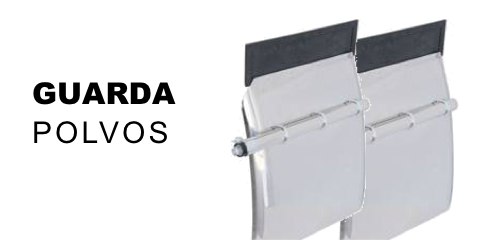
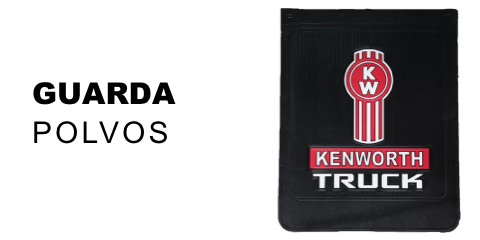
Modificacion codigo html y reestructuracion de imagenes

diff --git a/index.html b/index.html
@@ -15,7 +15,7 @@
 <body>
     <header>
         <div class="logo-header">
-            <img src="./img/logo/Logo.jpg" alt="logo_passionfortrucks">
+            <img src="./img/logo/Logo.png" alt="logo_passionfortrucks">
         </div>
         <nav>
             <div>
@@ -154,7 +154,7 @@
                     </div>
 
                     <div class="col productos-passion-for-trucks">
-                        <img src="./img/productos/Producto-1.png" alt="producto">
+                        <img src="./img/productos/Producto-2.png" alt="producto">
                         <h3>Bombillo Led Premium Multivoltage 9V - 32V</h3>
                         <a
                             href="https://api.whatsapp.com/send?phone=573008638967&text=Hola%21+%F0%9F%91%8B+%0A%C2%A1Estoy+en+PassionForTrucks.co+y+quiero+m%C3%A1s+informaci%C3%B3n+sobre+un+producto+para+mi+veh%C3%ADculo%21+%F0%9F%9A%9A">Ver
@@ -162,7 +162,7 @@
                     </div>
 
                     <div class="col productos-passion-for-trucks">
-                        <img src="./img/productos/Producto-1.png" alt="producto">
+                        <img src="./img/productos/Producto-3.png" alt="producto">
                         <h3>Exploradoras Kenworth 9V - 36V</h3>
                         <a
                             href="https://api.whatsapp.com/send?phone=573008638967&text=Hola%21+%F0%9F%91%8B+%0A%C2%A1Estoy+en+PassionForTrucks.co+y+quiero+m%C3%A1s+informaci%C3%B3n+sobre+un+producto+para+mi+veh%C3%ADculo%21+%F0%9F%9A%9A">Ver
@@ -170,7 +170,7 @@
                     </div>
 
                     <div class="col productos-passion-for-trucks">
-                        <img src="./img/productos/Producto-1.png" alt="producto">
+                        <img src="./img/productos/Producto-4.png" alt="producto">
                         <h3>Barra Panorámica 17 Funciones Multivoltage 12V - 24V</h3>
                         <a
                             href="https://api.whatsapp.com/send?phone=573008638967&text=Hola%21+%F0%9F%91%8B+%0A%C2%A1Estoy+en+PassionForTrucks.co+y+quiero+m%C3%A1s+informaci%C3%B3n+sobre+un+producto+para+mi+veh%C3%ADculo%21+%F0%9F%9A%9A">Ver
@@ -178,16 +178,16 @@
                     </div>
 
                     <div class="col productos-passion-for-trucks">
-                        <img src="./img/productos/Producto-1.png" alt="producto">
-                        <h3>Corneta Triple Sonido Tren Multivoltage 12V - 24V</h3>
+                        <img src="./img/productos/Producto-5.png" alt="producto">
+                        <h3>Tapa Tuerca 2021PA 41mm</h3>
                         <a
                             href="https://api.whatsapp.com/send?phone=573008638967&text=Hola%21+%F0%9F%91%8B+%0A%C2%A1Estoy+en+PassionForTrucks.co+y+quiero+m%C3%A1s+informaci%C3%B3n+sobre+un+producto+para+mi+veh%C3%ADculo%21+%F0%9F%9A%9A">Ver
                             Producto</a>
                     </div>
 
                     <div class="col productos-passion-for-trucks">
-                        <img src="./img/productos/Producto-1.png" alt="producto">
-                        <h3>Corneta Triple Tipo Westing Multivoltage 12V - 24V</h3>
+                        <img src="./img/productos/Producto-6.png" alt="producto">
+                        <h3>Tapa Tuerca Acero Inoxidable 12 x 3.3 cm</h3>
                         <a
                             href="https://api.whatsapp.com/send?phone=573008638967&text=Hola%21+%F0%9F%91%8B+%0A%C2%A1Estoy+en+PassionForTrucks.co+y+quiero+m%C3%A1s+informaci%C3%B3n+sobre+un+producto+para+mi+veh%C3%ADculo%21+%F0%9F%9A%9A">Ver
                             Producto</a>
@@ -199,48 +199,48 @@
 
                 <div class="row row-cols-1 row-cols-md-4 cuadro-productos">
                     <div class="col productos-passion-for-trucks">
-                        <img src="./img/productos/Producto-2.png" alt="producto">
-                        <h3>Titulo Del Producto</h3>
+                        <img src="./img/productos/Producto-7.png" alt="producto">
+                        <h3>Tapa Combustible Para Camión NPR</h3>
                         <a
                             href="https://api.whatsapp.com/send?phone=573008638967&text=Hola%21+%F0%9F%91%8B+%0A%C2%A1Estoy+en+PassionForTrucks.co+y+quiero+m%C3%A1s+informaci%C3%B3n+sobre+un+producto+para+mi+veh%C3%ADculo%21+%F0%9F%9A%9A">Ver
                             Producto</a>
                     </div>
 
                     <div class="col productos-passion-for-trucks">
-                        <img src="./img/productos/Producto-2.png" alt="producto">
-                        <h3>Titulo Del Producto</h3>
+                        <img src="./img/productos/Producto-8.png" alt="producto">
+                        <h3>Manguera Sopla Cabinas Importada</h3>
                         <a
                             href="https://api.whatsapp.com/send?phone=573008638967&text=Hola%21+%F0%9F%91%8B+%0A%C2%A1Estoy+en+PassionForTrucks.co+y+quiero+m%C3%A1s+informaci%C3%B3n+sobre+un+producto+para+mi+veh%C3%ADculo%21+%F0%9F%9A%9A">Ver
                             Producto</a>
                     </div>
 
                     <div class="col productos-passion-for-trucks">
-                        <img src="./img/productos/Producto-2.png" alt="producto">
-                        <h3>Titulo Del Producto</h3>
+                        <img src="./img/productos/Producto-9.png" alt="producto">
+                        <h3>Stop Trasero Led Universal Para Camión</h3>
                         <a
                             href="https://api.whatsapp.com/send?phone=573008638967&text=Hola%21+%F0%9F%91%8B+%0A%C2%A1Estoy+en+PassionForTrucks.co+y+quiero+m%C3%A1s+informaci%C3%B3n+sobre+un+producto+para+mi+veh%C3%ADculo%21+%F0%9F%9A%9A">Ver
                             Producto</a>
                     </div>
 
                     <div class="col productos-passion-for-trucks">
-                        <img src="./img/productos/Producto-2.png" alt="producto">
-                        <h3>Titulo Del Producto</h3>
+                        <img src="./img/productos/Producto-10.png" alt="producto">
+                        <h3>Unidad Kenworth De Lujo T800</h3>
                         <a
                             href="https://api.whatsapp.com/send?phone=573008638967&text=Hola%21+%F0%9F%91%8B+%0A%C2%A1Estoy+en+PassionForTrucks.co+y+quiero+m%C3%A1s+informaci%C3%B3n+sobre+un+producto+para+mi+veh%C3%ADculo%21+%F0%9F%9A%9A">Ver
                             Producto</a>
                     </div>
 
                     <div class="col productos-passion-for-trucks">
-                        <img src="./img/productos/Producto-2.png" alt="producto">
-                        <h3>Titulo Del Producto</h3>
+                        <img src="./img/productos/Producto-11.png" alt="producto">
+                        <h3>Cornetas 5 Bocinas Tipo Tren</h3>
                         <a
                             href="https://api.whatsapp.com/send?phone=573008638967&text=Hola%21+%F0%9F%91%8B+%0A%C2%A1Estoy+en+PassionForTrucks.co+y+quiero+m%C3%A1s+informaci%C3%B3n+sobre+un+producto+para+mi+veh%C3%ADculo%21+%F0%9F%9A%9A">Ver
                             Producto</a>
                     </div>
 
                     <div class="col productos-passion-for-trucks">
-                        <img src="./img/productos/Producto-2.png" alt="producto">
-                        <h3>Titulo Del Producto</h3>
+                        <img src="./img/productos/Producto-12.png" alt="producto">
+                        <h3>Cinta Neón Flex Varios Colores 12V ó 24V</h3>
                         <a
                             href="https://api.whatsapp.com/send?phone=573008638967&text=Hola%21+%F0%9F%91%8B+%0A%C2%A1Estoy+en+PassionForTrucks.co+y+quiero+m%C3%A1s+informaci%C3%B3n+sobre+un+producto+para+mi+veh%C3%ADculo%21+%F0%9F%9A%9A">Ver
                             Producto</a>
@@ -263,48 +263,48 @@
 
                 <div class="row row-cols-1 row-cols-md-4 cuadro-productos">
                     <div class="col productos-passion-for-trucks">
-                        <img src="./img/productos/Producto-3.png" alt="producto">
-                        <h3>Titulo Del Producto</h3>
+                        <img src="./img/productos/Producto-13.png" alt="producto">
+                        <h3>Plumillas Limpia Parabrisas 18" a 22"</h3>
                         <a
                             href="https://api.whatsapp.com/send?phone=573008638967&text=Hola%21+%F0%9F%91%8B+%0A%C2%A1Estoy+en+PassionForTrucks.co+y+quiero+m%C3%A1s+informaci%C3%B3n+sobre+un+producto+para+mi+veh%C3%ADculo%21+%F0%9F%9A%9A">Ver
                             Producto</a>
                     </div>
 
                     <div class="col productos-passion-for-trucks">
-                        <img src="../img/productos/Producto-3.png" alt="producto">
-                        <h3>Titulo Del Producto</h3>
+                        <img src="../img/productos/Producto-14.png" alt="producto">
+                        <h3>Semáforo Secuencial 12V a 36V</h3>
                         <a
                             href="https://api.whatsapp.com/send?phone=573008638967&text=Hola%21+%F0%9F%91%8B+%0A%C2%A1Estoy+en+PassionForTrucks.co+y+quiero+m%C3%A1s+informaci%C3%B3n+sobre+un+producto+para+mi+veh%C3%ADculo%21+%F0%9F%9A%9A">Ver
                             Producto</a>
                     </div>
 
                     <div class="col productos-passion-for-trucks">
-                        <img src="./img/productos/Producto-3.png" alt="producto">
-                        <h3>Titulo Del Producto</h3>
+                        <img src="./img/productos/Producto-15.png" alt="producto">
+                        <h3>Parasoles Polarizados 53 x 130 cm ó 42 x 130cm</h3>
                         <a
                             href="https://api.whatsapp.com/send?phone=573008638967&text=Hola%21+%F0%9F%91%8B+%0A%C2%A1Estoy+en+PassionForTrucks.co+y+quiero+m%C3%A1s+informaci%C3%B3n+sobre+un+producto+para+mi+veh%C3%ADculo%21+%F0%9F%9A%9A">Ver
                             Producto</a>
                     </div>
 
                     <div class="col productos-passion-for-trucks">
-                        <img src="./img/productos/Producto-3.png" alt="producto">
-                        <h3>Titulo Del Producto</h3>
+                        <img src="./img/productos/Producto-16.png" alt="producto">
+                        <h3>Betún Siliconado Para Llantas Briffy</h3>
                         <a
                             href="https://api.whatsapp.com/send?phone=573008638967&text=Hola%21+%F0%9F%91%8B+%0A%C2%A1Estoy+en+PassionForTrucks.co+y+quiero+m%C3%A1s+informaci%C3%B3n+sobre+un+producto+para+mi+veh%C3%ADculo%21+%F0%9F%9A%9A">Ver
                             Producto</a>
                     </div>
 
                     <div class="col productos-passion-for-trucks">
-                        <img src="./img/productos/Producto-3.png" alt="producto">
-                        <h3>Titulo Del Producto</h3>
+                        <img src="./img/productos/Producto-17.png" alt="producto">
+                        <h3>Licuadora Trimon 1 ó 2 Focos</h3>
                         <a
                             href="https://api.whatsapp.com/send?phone=573008638967&text=Hola%21+%F0%9F%91%8B+%0A%C2%A1Estoy+en+PassionForTrucks.co+y+quiero+m%C3%A1s+informaci%C3%B3n+sobre+un+producto+para+mi+veh%C3%ADculo%21+%F0%9F%9A%9A">Ver
                             Producto</a>
                     </div>
 
                     <div class="col productos-passion-for-trucks">
-                        <img src="./img/productos/Producto-3.png" alt="producto">
-                        <h3>Titulo Del Producto</h3>
+                        <img src="./img/productos/Producto-18.png" alt="producto">
+                        <h3>Módulos Led 3 Puntos 12V ó 24V</h3>
                         <a
                             href="https://api.whatsapp.com/send?phone=573008638967&text=Hola%21+%F0%9F%91%8B+%0A%C2%A1Estoy+en+PassionForTrucks.co+y+quiero+m%C3%A1s+informaci%C3%B3n+sobre+un+producto+para+mi+veh%C3%ADculo%21+%F0%9F%9A%9A">Ver
                             Producto</a>
@@ -316,48 +316,48 @@
 
                 <div class="row row-cols-1 row-cols-md-4 cuadro-productos">
                     <div class="col productos-passion-for-trucks">
-                        <img src="./img/productos/Producto-5.png" alt="producto">
-                        <h3>Titulo Del Producto</h3>
+                        <img src="./img/productos/Producto-19.png" alt="producto">
+                        <h3>Lamparas REF 1017 - 1068</h3>
                         <a
                             href="https://api.whatsapp.com/send?phone=573008638967&text=Hola%21+%F0%9F%91%8B+%0A%C2%A1Estoy+en+PassionForTrucks.co+y+quiero+m%C3%A1s+informaci%C3%B3n+sobre+un+producto+para+mi+veh%C3%ADculo%21+%F0%9F%9A%9A">Ver
                             Producto</a>
                     </div>
 
                     <div class="col productos-passion-for-trucks">
-                        <img src="./img/productos/Producto-5.png" alt="producto">
-                        <h3>Titulo Del Producto</h3>
+                        <img src="./img/productos/Producto-20.png" alt="producto">
+                        <h3>Guarda Polvo Negro 60 x 75 cm</h3>
                         <a
                             href="https://api.whatsapp.com/send?phone=573008638967&text=Hola%21+%F0%9F%91%8B+%0A%C2%A1Estoy+en+PassionForTrucks.co+y+quiero+m%C3%A1s+informaci%C3%B3n+sobre+un+producto+para+mi+veh%C3%ADculo%21+%F0%9F%9A%9A">Ver
                             Producto</a>
                     </div>
 
                     <div class="col productos-passion-for-trucks">
-                        <img src="./img/productos/Producto-5.png" alt="producto">
-                        <h3>Titulo Del Producto</h3>
+                        <img src="./img/productos/Producto-21.png" alt="producto">
+                        <h3>Pitos Yarton Super Horn 12v ó 24v</h3>
                         <a
                             href="https://api.whatsapp.com/send?phone=573008638967&text=Hola%21+%F0%9F%91%8B+%0A%C2%A1Estoy+en+PassionForTrucks.co+y+quiero+m%C3%A1s+informaci%C3%B3n+sobre+un+producto+para+mi+veh%C3%ADculo%21+%F0%9F%9A%9A">Ver
                             Producto</a>
                     </div>
 
                     <div class="col productos-passion-for-trucks">
-                        <img src="./img/productos/Producto-5.png" alt="producto">
-                        <h3>Titulo Del Producto</h3>
+                        <img src="./img/productos/Producto-22.png" alt="producto">
+                        <h3>Placas de Lujo Exclusivas Passion For Trucks</h3>
                         <a
                             href="https://api.whatsapp.com/send?phone=573008638967&text=Hola%21+%F0%9F%91%8B+%0A%C2%A1Estoy+en+PassionForTrucks.co+y+quiero+m%C3%A1s+informaci%C3%B3n+sobre+un+producto+para+mi+veh%C3%ADculo%21+%F0%9F%9A%9A">Ver
                             Producto</a>
                     </div>
 
                     <div class="col productos-passion-for-trucks">
-                        <img src="./img/productos/Producto-5.png" alt="producto">
-                        <h3>Titulo Del Producto</h3>
+                        <img src="./img/productos/Producto-23.png" alt="producto">
+                        <h3>Espejo Completo JAC o FTR</h3>
                         <a
                             href="https://api.whatsapp.com/send?phone=573008638967&text=Hola%21+%F0%9F%91%8B+%0A%C2%A1Estoy+en+PassionForTrucks.co+y+quiero+m%C3%A1s+informaci%C3%B3n+sobre+un+producto+para+mi+veh%C3%ADculo%21+%F0%9F%9A%9A">Ver
                             Producto</a>
                     </div>
 
                     <div class="col productos-passion-for-trucks">
-                        <img src="./img/productos/Producto-5.png" alt="producto">
-                        <h3>Titulo Del Producto</h3>
+                        <img src="./img/productos/Producto-24.png" alt="producto">
+                        <h3>Limpiador Polish Chrome</h3>
                         <a
                             href="https://api.whatsapp.com/send?phone=573008638967&text=Hola%21+%F0%9F%91%8B+%0A%C2%A1Estoy+en+PassionForTrucks.co+y+quiero+m%C3%A1s+informaci%C3%B3n+sobre+un+producto+para+mi+veh%C3%ADculo%21+%F0%9F%9A%9A">Ver
                             Producto</a>
@@ -497,7 +497,7 @@
                     <div class="col-md-3 col-lg-4 col-xl-3 mx-auto mb-4">
                         <!-- Content -->
                         <div class="logo-header">
-                            <img src="./img/logo/Logo.jpg" alt="logo_passionfortrucks">
+                            <img src="./img/logo/Logo.png" alt="logo_passionfortrucks">
                         </div>
                         <h5 class=" d-flex justify-content-center text-uppercase fw-bold mb-4">
                             <i class="fas fa-gem me-3"></i>Passion For Trucks
@@ -532,6 +532,33 @@
                         </p>
                         <p>
                             <a href="#!" class="text-reset">Laravel</a>
+                        </p>
+                    </div>
+                    <!-- Grid column -->
+
+                    <!-- Grid column -->
+                    <div class="col-md-3 col-lg-2 col-xl-2 mx-auto mb-4">
+                        <!-- Links -->
+                        <h6 class="text-uppercase fw-bold mb-4">
+                            Useful links
+                        </h6>
+                        <p>
+                            <a href="#!" class="text-reset">Pricing</a>
+                        </p>
+                        <p>
+                            <a href="#!" class="text-reset">Settings</a>
+                        </p>
+                        <p>
+                            <a href="#!" class="text-reset">Orders</a>
+                        </p>
+                        <p>
+                            <a href="#!" class="text-reset">Help</a>
+                        </p>
+                        <p>
+                            <a href="#!" class="text-reset">Help</a>
+                        </p>
+                        <p>
+                            <a href="#!" class="text-reset">Help</a>
                         </p>
                     </div>
                     <!-- Grid column -->
